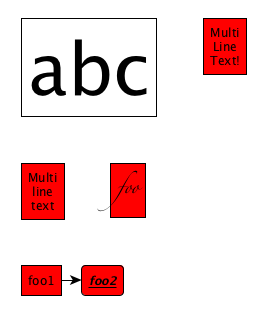
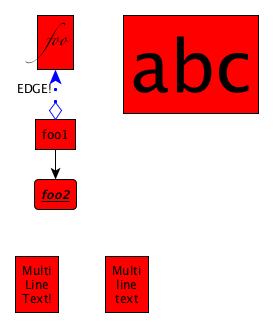
Add support for edge labels (and enable other edge options)
Closes #2

diff --git a/pyyed/pyyed.py b/pyyed/pyyed.py
@@ -1,6 +1,6 @@
 import xml.etree.cElementTree as ET
 
-node_shapes = ["rectangle", "rectangle3d", "rectangle", "roundrectangle", "diamond", "ellipse", "fatarrow",
+node_shapes = ["rectangle", "rectangle3d", "roundrectangle", "diamond", "ellipse", "fatarrow",
                "fatarrow2", "hexagon", "octagon", "parallelogram", "parallelogram2", "star5", "star6",
                "star6", "star8", "trapezoid", "trapezoid2", "triangle", "trapezoid2", "triangle"]
 
@@ -190,11 +190,13 @@ class Node:
 
 
 class Edge:
-    def __init__(self, node1, node2, arrowhead="standard", arrowfoot="none", color="#000000", line_type="line",
+    def __init__(self, node1, node2, label="", arrowhead="standard", arrowfoot="none", color="#000000", line_type="line",
                  width="1.0"):
         self.node1 = node1
         self.node2 = node2
         self.edge_id = "%s_%s" % (node1, node2)
+
+        self.label = label
 
         if arrowhead not in arrow_types:
             raise RuntimeWarning("Arrowhead type %s not recognised" % arrowhead)
@@ -221,6 +223,9 @@ class Edge:
 
         ET.SubElement(pl, "y:Arrows", source=self.arrowfoot, target=self.arrowhead)
         ET.SubElement(pl, "y:LineStyle", color=self.color, type=self.line_type, width=self.width)
+
+        if self.label:
+            ET.SubElement(pl, "y:EdgeLabel").text = self.label
 
         return edge
 
@@ -292,7 +297,8 @@ class Graph:
 
         self.nodes[node_name] = Node(node_name, **kwargs)
 
-    def add_edge(self, node1, node2):
+    def add_edge(self, node1, node2, label="", arrowhead="standard", arrowfoot="none", color="#000000", line_type="line",
+                 width="1.0"):
         # pass node names, not actual node objects
 
         existing_entities = []
@@ -304,7 +310,7 @@ class Graph:
         if node2 not in existing_entities:
             self.nodes[node2] = Node(node2)
 
-        edge = Edge(node1, node2)
+        edge = Edge(node1, node2, label, arrowhead, arrowfoot, color, line_type, width)
         self.edges[edge.edge_id] = edge
 
     def add_group(self, group_id, **kwargs):

diff --git a/demo.py b/demo.py
@@ -13,11 +13,15 @@ g.add_node('foobar', label="""Multi
 Line
 Text!""")
 
+g.add_edge('foo', 'foo1', label="EDGE!", width="3.0", color="#0000FF", 
+	       arrowhead="white_diamond", arrowfoot="standard", line_type="dotted")
+
 print g.get_graph()
 
+print "\n\n\n"
 
 
-g = Graph()
+g = pyyed.Graph()
 g.add_node('foo', font_family="Zapfino")
 
 gg = g.add_group("MY_Group", shape="diamond")
@@ -26,3 +30,7 @@ gg.add_node('abc', font_size="72", height="100")
 
 g.add_edge('foo2', 'abc')
 g.add_edge('foo', 'MY_Group')
+
+print g.get_graph()
+
+

diff --git a/README.md b/README.md
@@ -26,9 +26,22 @@ The interface is similar to that of NetworkX:
     Line
     Text!""")    
 
+    g.add_edge('foo', 'foo1', label="EDGE!", width="3.0", color="#0000FF", 
+               arrowhead="white_diamond", arrowfoot="standard", line_type="dotted")
+
     print g.get_graph()
     
 
 Saving this to a file with a ``.graphml`` extension, opening in yEd, applying  ``Tools -> Fit Node to Label`` and ``Layout -> One-click layout`` produces something like the following:
 
 ![](example.png)
+
+## Options
+
+Valid ``node shapes`` are: "rectangle", "rectangle3d", "roundrectangle", "diamond", "ellipse", "fatarrow", "fatarrow2", "hexagon", "octagon", "parallelogram", "parallelogram2", "star5", "star6", "star6", "star8", "trapezoid", "trapezoid2", "triangle", "trapezoid2", "triangle"
+
+Valid ``line_types`` are: "line", "dashed", "dotted", "dashed_dotted"
+
+Valid ``font_styles`` are: "plain", "bold", "italic", "bolditalic"
+
+Valid ``arrow_types`` are: "none", "standard", "white_delta", "diamond", "white_diamond", "short", "plain", "concave", "concave", "convex", "circle", "transparent_circle", "dash", "skewed_dash", "t_shape", "crows_foot_one_mandatory", "crows_foot_many_mandatory", "crows_foot_many_optional", "crows_foot_many_optional", "crows_foot_one", "crows_foot_many", "crows_foot_optional"
